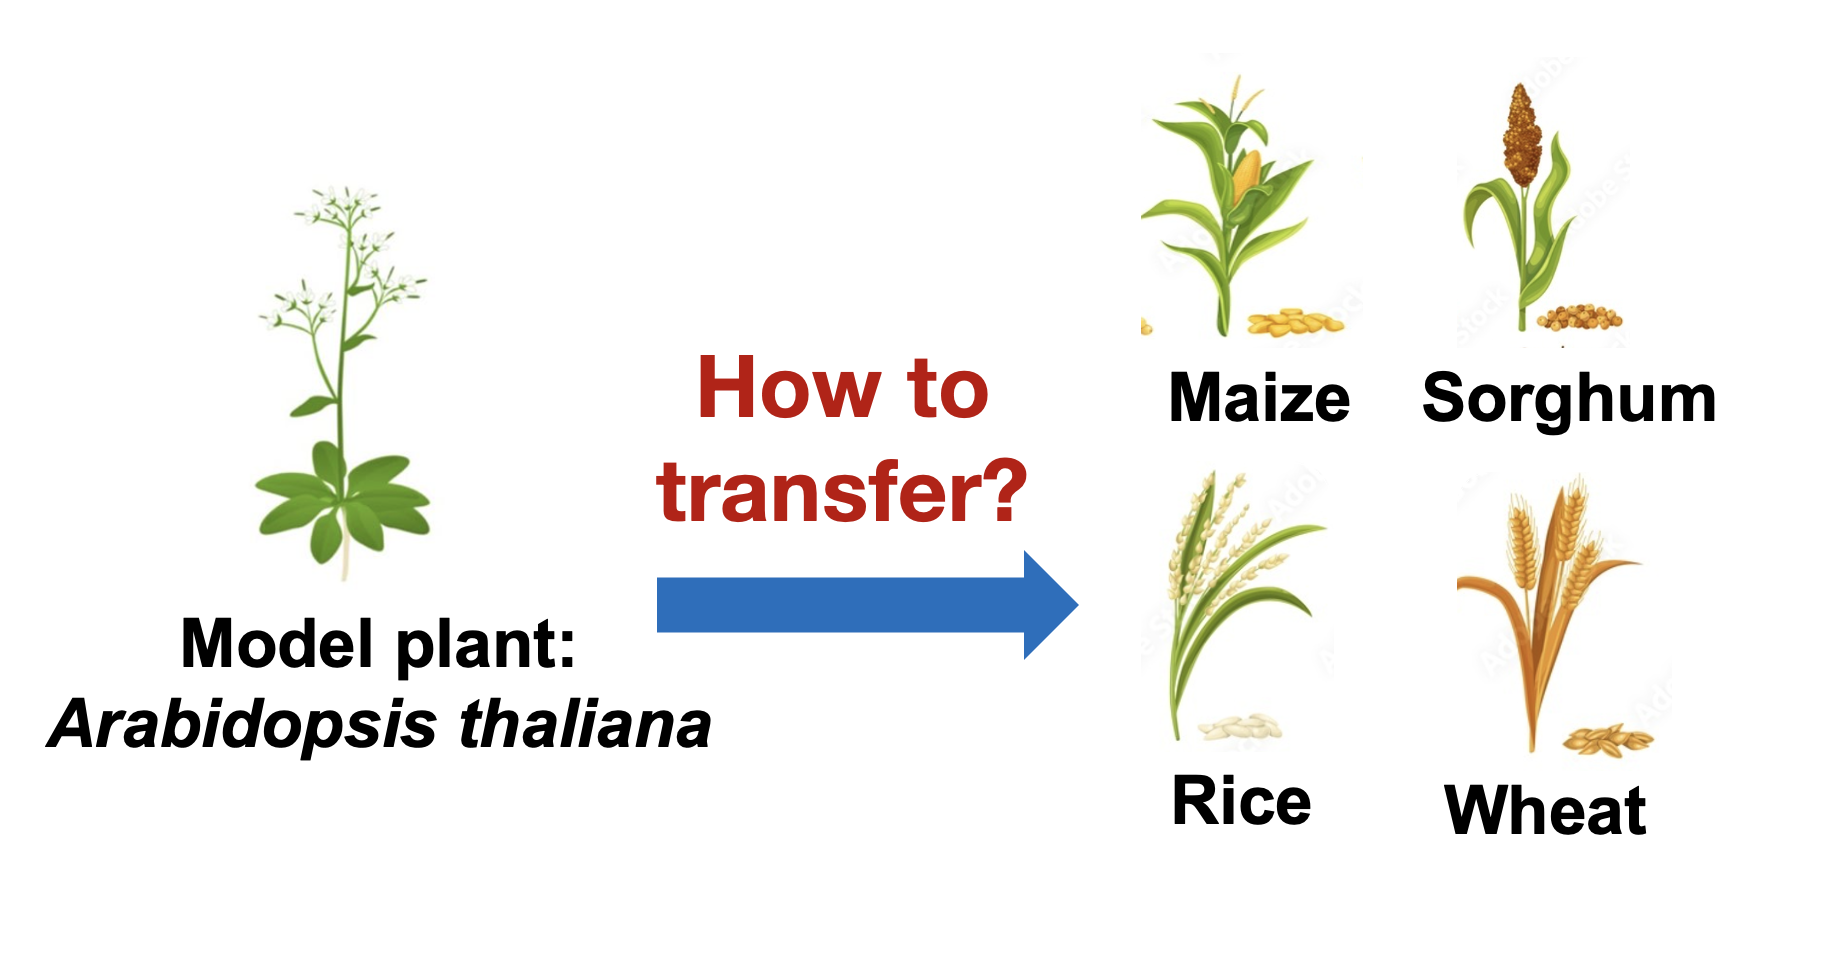
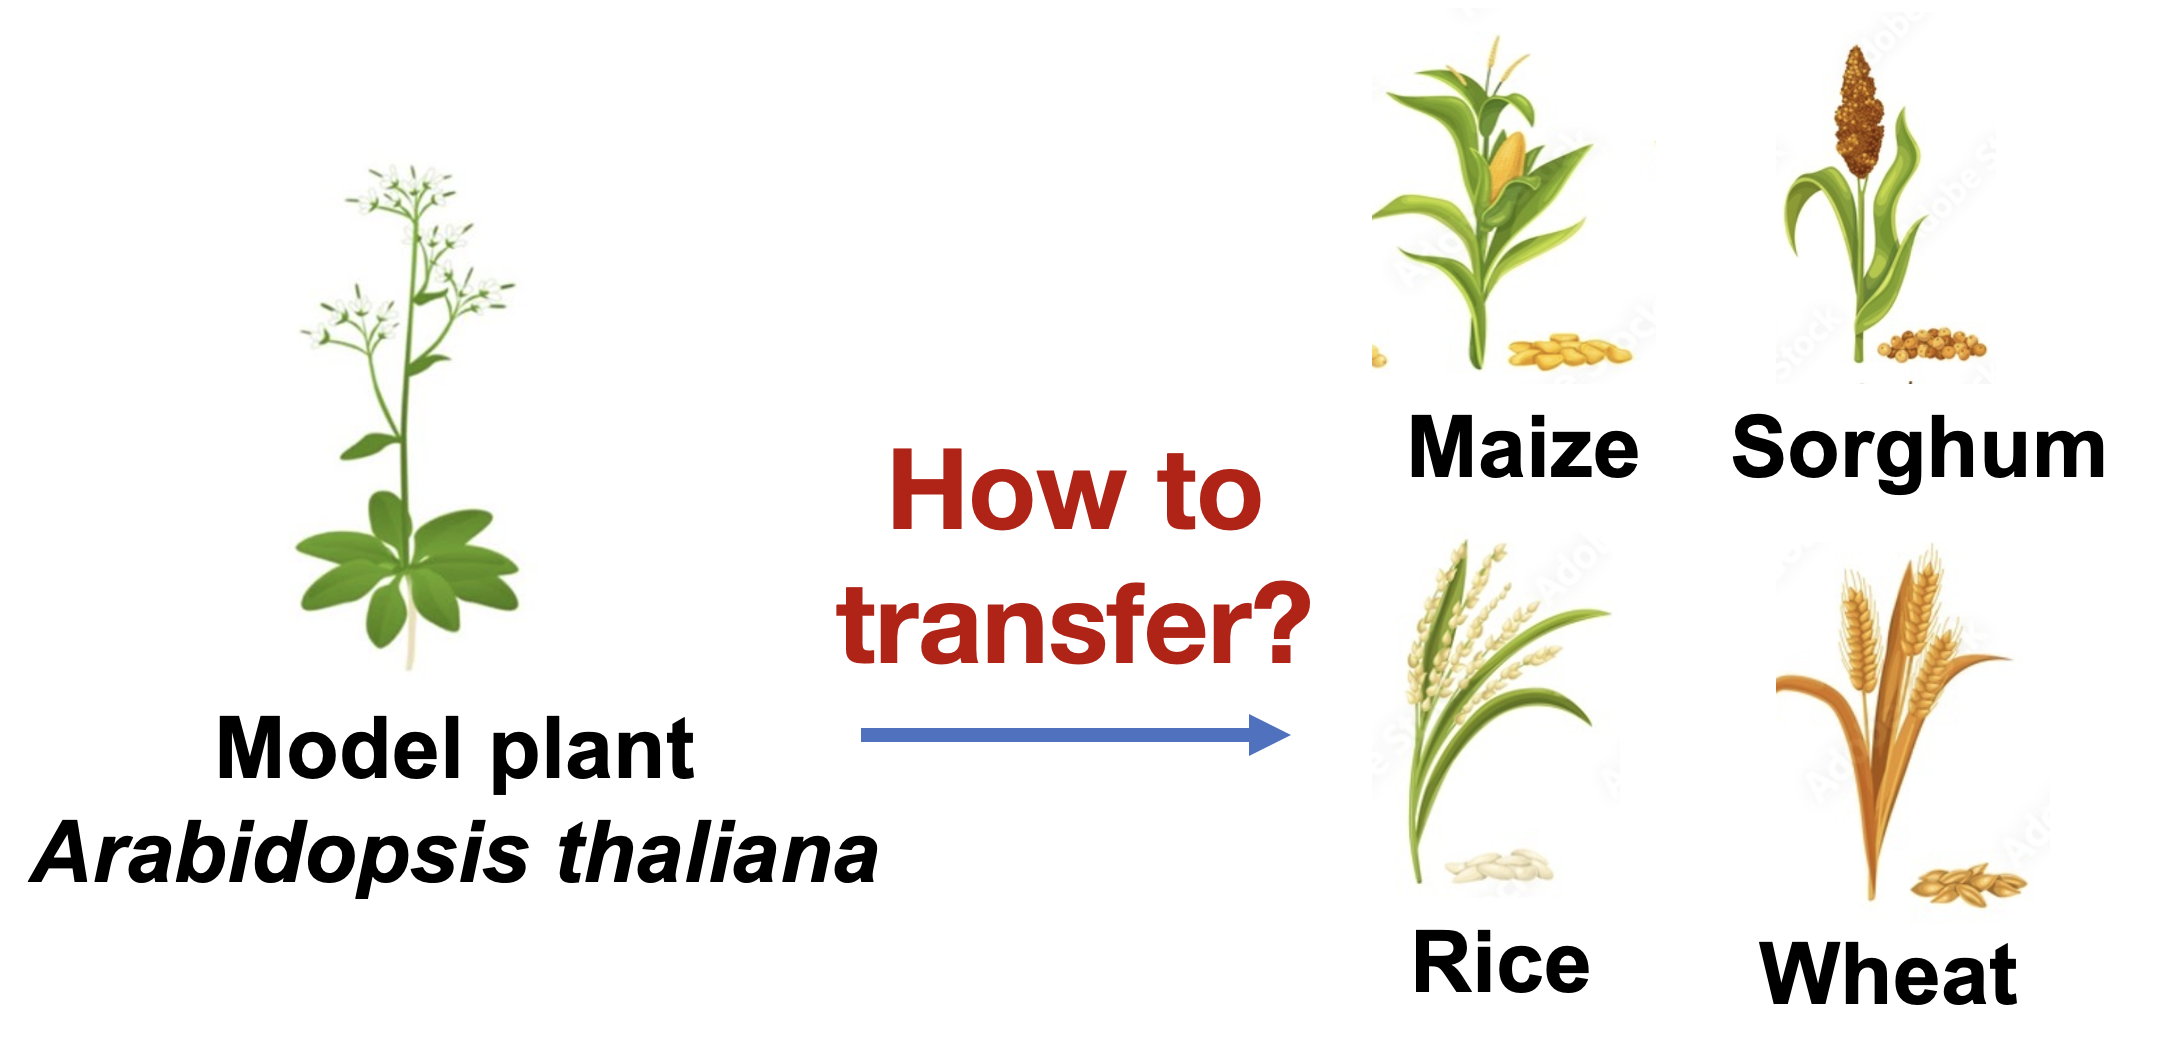
First official commit

diff --git a/index.html b/index.html
@@ -146,10 +146,11 @@
     <h2 class="title">Introduction</h2>
     <div class="content is-medium">
       <p class="justified-text">
-      Plant genomes are diverse in size, composition, and complexity, and while extensive genomic resources exist for model plants. Generating analogous genomic resources experimentally for all plant genomes is time-consuming, costly, and impractical. This highlights the need for developing cross-species models capable of capturing evolutionary conservation across diverse plant species.
+      Understanding plant genomes is crucial for plant breeding, agricultural productivity, and sustainability. However, plant genomes are diverse in size, composition, and complexity, experimentally generating analogous genomic resources for hundreds of thousands of plant species is challenging and impractical. This highlights the need for developing cross-species models capable of capturing evolutionary conservation across diverse plant species.
+
       </p>
     </div>
-      <img src="static/images/Transfer-to-crops.png" alt="Model plant to crops"/>
+    <img src="static/images/Transfer-to-crops.png" alt="Model plant to crops" style="width:70%;height:70%; display: block; margin-left: auto; margin-right: auto;"/>
   </div>
 </section>
 <!-- End Introduction-->
@@ -160,7 +161,7 @@
     <h2 class="title">Why DNA Language Model?</h2>
     <div class="content is-medium">
       <p class="justified-text">
-        Supervised sequence models have acquired great success in understanding DNA sequence function but typically require large-scale labeled data, such as ENCODE-scale datasets, to achieve robust performance. Such extensive labeled data is often scarce in plant genomics. However, the success of self-supervised language models (LMs) offers a promising alternative. In this paradigm, a base model is pre-trained on vast amounts of unlabeled biological sequences to learn evolutionary conservation. Pre-trained models are then fine-tuned on limited labeled data, enabling better performance on downstream tasks and enhancing generalizability across species relative to existing methods.
+        Supervised sequence models are successful in understanding DNA sequence function but typically require large-scale labeled data, such as ENCODE-scale datasets, to achieve robust performance. Such extensive labeled data is often scarce in plant genomics. However, the success of self-supervised language models (LMs) offers a promising alternative. In this paradigm, a base model is pre-trained on vast amounts of unlabeled biological sequences to learn evolutionary conservation. Pre-trained models are then fine-tuned on limited labeled data, enabling better performance on downstream tasks and enhancing generalizability across species relative to existing methods.
       </p>
     </div>
   </div>
@@ -173,7 +174,7 @@
     <h2 class="title">Introducing PlantCaduceus</h2>
     <div class="content is-medium">
       <p class="justified-text">
-      PlantCaduceus builds upon Caduceus <a href="https://arxiv.org/abs/2403.03234" target="_blank">(Schiff et al., 2024)</a> and Mamba <a href="https://arxiv.org/abs/2312.00752" target="_blank">(Gu et al., 2023)</a> architectures to model diverse  genomes at single nucleotide resolution. PlantCaduceus is trained on 16 Angiosperm genomes, to capture evolutionary conservation and variation across species. We trained PlantCaduceus on 16 Angiosperm genomes, spanning 160 million years of evolutionary history. PlantCaduceus takes 512 base pair (bp) windows of input sequences, tokenizing them into single nucleotides, and is pre-trained using a masked language modeling objective. To address the substantial variation in genome sizes and the high proportion of repetitive sequences in these genomes, we emphasized non-repetitive sequences by down-weighting repetitive sequences during pre-training.  
+      PlantCaduceus builds upon Caduceus <a href="https://arxiv.org/abs/2403.03234" target="_blank">(Schiff et al., 2024)</a> and Mamba <a href="https://arxiv.org/abs/2312.00752" target="_blank">(Gu et al., 2023)</a> architectures to model diverse  genomes at single nucleotide resolution. PlantCaduceus is trained on 16 Angiosperm genomes spanning 160 million years of evolutionary history, to capture evolutionary conservation and variation across species. PlantCaduceus takes 512 base pair (bp) windows of input sequences, tokenizing them into single nucleotides, and is pre-trained using a masked language modeling objective.
       </p>      
     </div>
     <div class="columns is-centered">
@@ -193,9 +194,9 @@
     </div>
     <div class="content is-medium">
       <ul>
-        <li>Supervised CNN + LSTM: For each task, we trained a convolutional and recurrent neural network <a href="https://academic.oup.com/nar/article/44/11/e107/2468300" target="_blank">(Quang et al., 2016)</a> from scratch using one-hot encoded DNA sequences as input. The Adam optimizer with a learning rate of 0.01 was employed for model optimization. The batch size was set to 2,048. Early stopping with a patience of 20 steps was implemented. </li>
-        <li>Nucleotide transformer <a href="" target="_blank">(Hugo et al., 2023)</a> is a non-plant multi-species transformer DNA LM, we used the multi-species version 2 that was pre-trained on 850 genomes, hereafter referred to as NT-v2. </li>
-        <li>AgroNT <a href="https://www.biorxiv.org/content/10.1101/2023.10.24.563624v2" target="">(Javier et al., 2023)</a> is a transformer-based DNA LM with one billion parameters, pre-trained on 48 plant genomes. </li>
+        <li>Supervised CNN + LSTM: For each task, we trained a convolutional and recurrent neural network <a href="https://academic.oup.com/nar/article/44/11/e107/2468300" target="_blank">(Quang et al., 2016)</a> from scratch using one-hot encoded DNA sequences as input. </li>
+        <li>Nucleotide transformer <a href="" target="_blank">(Hugo et al., 2023)</a> is a multi-species non-plant transformer DNA LM, we used the multi-species version 2 that was pre-trained on 850 genomes, hereafter referred to as NT-v2. </li>
+        <li>AgroNT <a href="https://www.biorxiv.org/content/10.1101/2023.10.24.563624v2" target="">(Javier et al., 2023)</a> is a multi-species plant transformer DNA LM pre-trained on 48 plant genomes. </li>
         <li>GPN <a href="https://www.pnas.org/doi/full/10.1073/pnas.2311219120" target="_blank">(Benegas et al., 2023)</a> is a convolutional DNA LM pre-trained on eight genomes from the Brassicales order. </li>
         </p>
     </ul>
@@ -206,7 +207,7 @@
 
     <div class="content is-medium">
       <p class="justified-text">
-        Accurate annotation of translation initiation site (TIS) and translation termination site (TTS), and splice donor and acceptor sites, is crucial in understanding the genome. To evaluate PlantCaduceus’s performance on these tasks, we generated training and validation datasets using Arabidopsis thaliana TAIR10, a relatively well-annotated genome released over two decades ago. Specifically, annotated TIS and TTS were considered as true sites,  while the corresponding false sites were randomly selected from the entire genome to match corresponding motifs, such as ATG for TIS, stop codons for TTS. To evaluate the cross-species transferability of fine-tuned PlantCaduceus, we generated three extremely imbalanced cross-species testing datasets for rice, sorghum, and maize. We found PlantCaduceus outperformed all benchmark models on TIS and TTS tasks, outperforming the best benchmark model GPN by XXX% and XXX% for TIS and TTS, respectively.
+        Accurate prediction of translation initiation site (TIS), translation termination site (TTS), and splice donor and acceptor sites, is crucial in gene annotation. To explore PlantCaduceus's performance on gene annotation tasks, we generated training and validation datasets for these four tasks, using Arabidopsis thaliana TAIR10, a relatively well-annotated genome released over two decades ago. To evaluate the cross-species prediction performance, we generated three extremely imbalanced cross-species testing datasets for rice, sorghum, and maize. With only training on Arabidopsis, PlantCaduceus outperformed all benchmark models on TIS and TTS tasks, outperforming the best benchmark model GPN by 7.23-fold and 3.75-fold for TIS and TTS when transfered to 160 million year diverged maize, respectively.
       </p>
     </div>
     <div class="columns is-centered">
@@ -221,7 +222,7 @@
 
     <div class="content is-medium">
       <p class="justified-text">
-        With similar way as TIS and TTS, we generated training, validation and testing datasets for splice donor and acceptor tasks. We found PlantCaduceus outperformed all benchmark models on splice donor and acceptor sites tasks, outperforming the best benchmark model GPN by XXX% and XXX% for splice donor and acceptor sites, respectively.
+        With similar way as TIS and TTS, we generated training, validation and testing datasets for splice donor and acceptor tasks. We found PlantCaduceus outperformed all benchmark models on splice donor and acceptor sites tasks, outperforming the best benchmark model GPN by 1.47-fold and 1.45-fold for splice donor and acceptor sites, respectively.
       </p>
     </div>
     <div class="columns is-centered">
@@ -231,12 +232,15 @@
     </div>
 
     <div>
-      <h2 class="subtitle">Prioritizing deleterious mutations by zero-shot strategt</h2>
+      <h2 class="subtitle">Prioritizing deleterious mutations by zero-shot strategy</h2>
     </div>
 
     <div class="content is-medium">
       <p class="justified-text">
-        The training objective of PlantCaduceus is to predict masked nucleotides based on sequence context; if a pre-trained multi-species DNA LM can accurately predict masked tokens, it suggests that similar sequence patterns, conserved across different species, were frequently observed during pre-training. We hypothesize that the predicted likelihood of the reference allele versus the alternate allele can identify deleterious mutations, as mutations in conserved regions across species are likely deleterious. Deleterious mutations tend to have lower frequencies within a population due to selective constraints, we therefore used minor allele frequency (MAF) to quantify the deleteriousness of mutations predicted by different methods. Despite the potential for low MAF in neutral/beneficial alleles, we believe this approach provides useful signals for assessing deleterious mutations. Both phyloP and phastCons assess evolutionary constraint using multiple sequence alignments and phylogenetic models (METHODS), assigning higher scores to conserved regions. We found the deleterious mutations identified with the zero-shot strategy of PlantCaduceus show a three-fold enrichment of rare alleles compared to the most commonly used evolutionary-based methods such as phyloP and phastCons. For missense mutations, PlantCaduceus matches the performance of the state-of-the-art protein LMs.
+        The training objective of PlantCaduceus is to predict masked nucleotides based on sequence context; if a pre-trained multi-species DNA LM can accurately predict masked tokens, it suggests that similar sequence patterns, conserved across different species, were frequently observed during pre-training. We hypothesize that the predicted likelihood of the reference allele versus the alternate allele can identify deleterious mutations, as mutations in conserved regions across species are likely deleterious. 
+      </p>
+      <p class="justified-text"></p>
+        Deleterious mutations tend to have lower frequencies within a population due to selective constraints, we therefore used minor allele frequency (MAF) to quantify the deleteriousness of mutations predicted by different methods. Despite the potential for low MAF in neutral/beneficial alleles, we believe this approach provides useful signals for assessing deleterious mutations. Both phyloP and phastCons assess evolutionary constraint using multiple sequence alignments and phylogenetic models, assigning higher scores to conserved regions. We found the deleterious mutations identified with the zero-shot strategy of PlantCaduceus show a three-fold enrichment of rare alleles compared to phastCons. For missense mutations, PlantCaduceus matches the performance of the state-of-the-art protein LM.
       </p>
     </div>
     <div class="columns is-centered">
@@ -255,7 +259,7 @@
     <h2 class="title">Conclusion</h2>
     <div class="content is-medium">
       <p class="justified-text">
-        In this work, we introduced PlantCaduceus, a multi-species plant DNA LM pretrained on a well-curated set of 16 evolutionarily distant Angiosperm genomes, enabling cross-species prediction of functional annotations with limited data. PlantCaduceus leverages Mamba and Caduceus architectures to support bi-directional, reverse complement equivariant sequence modeling. We demonstrated the superior cross-species performance of PlantCaduceus on five tasks involving transcription, translation, and evolutionary constraint modeling. These results highlight the potential of PlantCaduceus to serve as a foundational model for comprehensively understanding plant genomes.
+        We introduced PlantCaduceus, a multi-species plant DNA LM pretrained on a curated set of 16 evolutionarily distant Angiosperm genomes, enabling cross-species prediction of functional annotations with limited data. PlantCaduceus leverages Mamba and Caduceus architectures to support bi-directional, reverse complement equivariant sequence modeling. We demonstrated the superior cross-species performance of PlantCaduceus on five tasks involving transcription, translation, and evolutionary constraint modeling. These results highlight the potential of PlantCaduceus to serve as a foundational model for comprehensively understanding plant genomes.
       </p>
     </div>
   </div>
